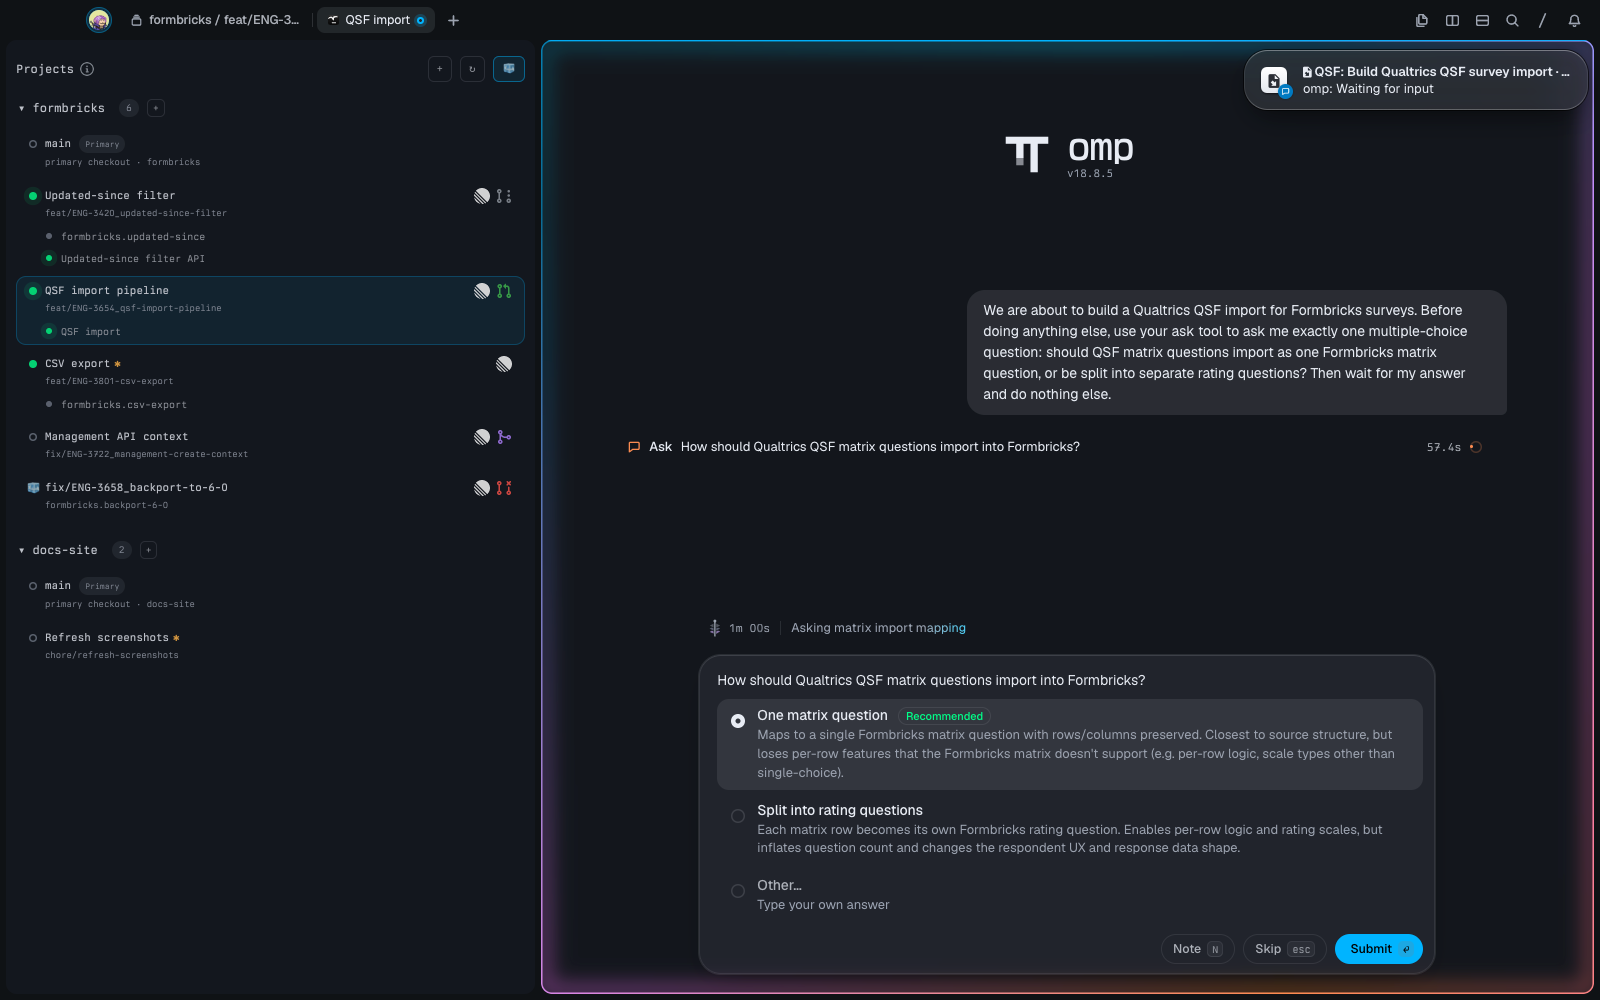
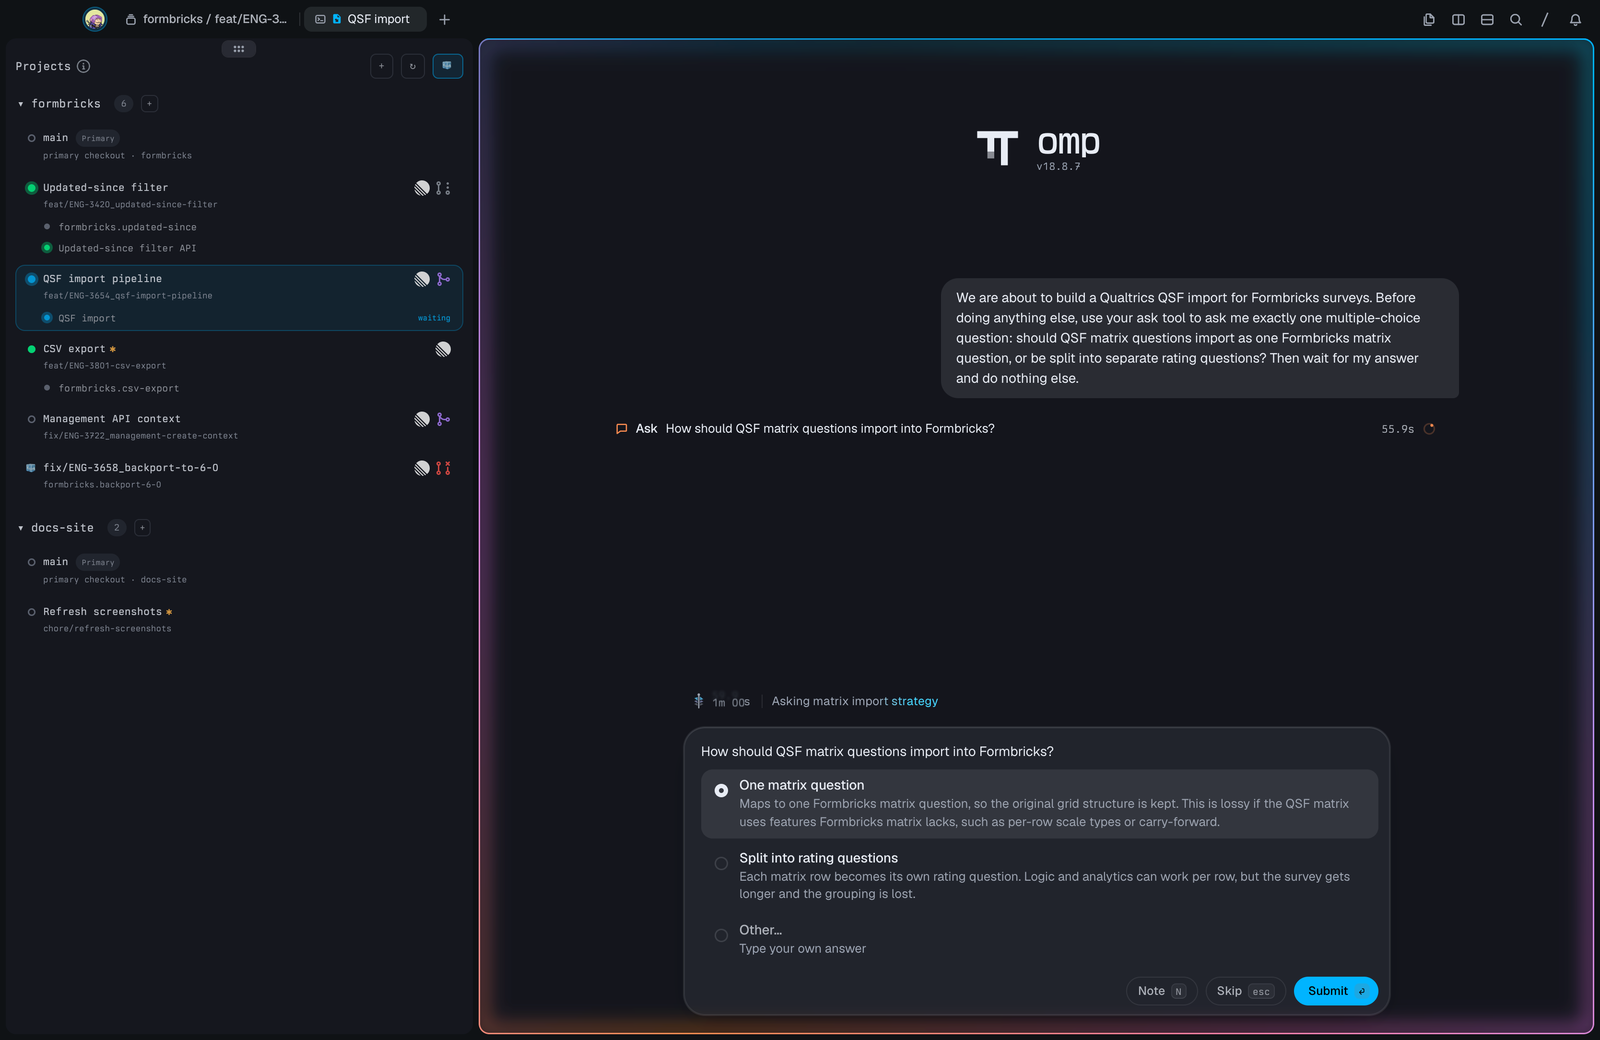
Docs: drop fixed limitations; refresh screenshots

diff --git a/README.md b/README.md
@@ -98,7 +98,7 @@ The project is the one you're in, or name it: *"…for ENG-123 in api"*. If the 
 
 ### Visualize a PR
 
-<img src="docs/images/visualize-pr.png" alt="A Visualize PR outline: why the change exists, things to note, and the change outline" width="900">
+<img src="docs/images/visualize-pr.png" alt="A Visualize PR outline: why the change exists, things to note, and a sequence diagram of the change" width="900">
 
 Overseer fetches the PR's metadata and full diff from GitHub, then has omp write an outline following HumanLayer's [visual-pr](https://github.com/humanlayer/skills) skill: why the change exists, what to watch for, and Mermaid diagrams, file-tree diffs and pseudocode. The local checkout only adds surrounding context. It takes a minute or two, and unchanged PRs reopen instantly from a cache.
 
@@ -250,11 +250,9 @@ Other conventions:
 
 - macOS only (folder picker, paths, Tern desktop).
 - Visualize PR fails on PRs whose diff exceeds GitHub's 20,000-line API limit (`gh pr diff` returns HTTP 406). The tab shows the error.
-- omp 18.8.5 reports its ask prompt as `working` rather than `waiting_input`, so an omp agent waiting on a question pulses instead of turning blue.
 - The panel moves into each tab you switch to, so every switch animates briefly and resizes the terminals in both tabs (full-screen programs redraw). In a tab split top-and-bottom it sits beside the top half.
 - If the timer hook is ever disabled, clicks and process results stop redrawing the panel until the plugin reloads; tab and focus changes still redraw it.
 - A plugin reload during a Visualize PR run, including the one Tern does when you edit a file in a linked plugin, ends the run and leaves its tab on the waiting message. Run it again.
-- Tern 0.6.2 currently shows Mermaid blocks in canvases as source rather than diagrams (seen in both themes), so outline diagrams appear as code until Tern renders them again.
 - Multiple Tern windows work but haven't been exhaustively tested together.
 
 ---
